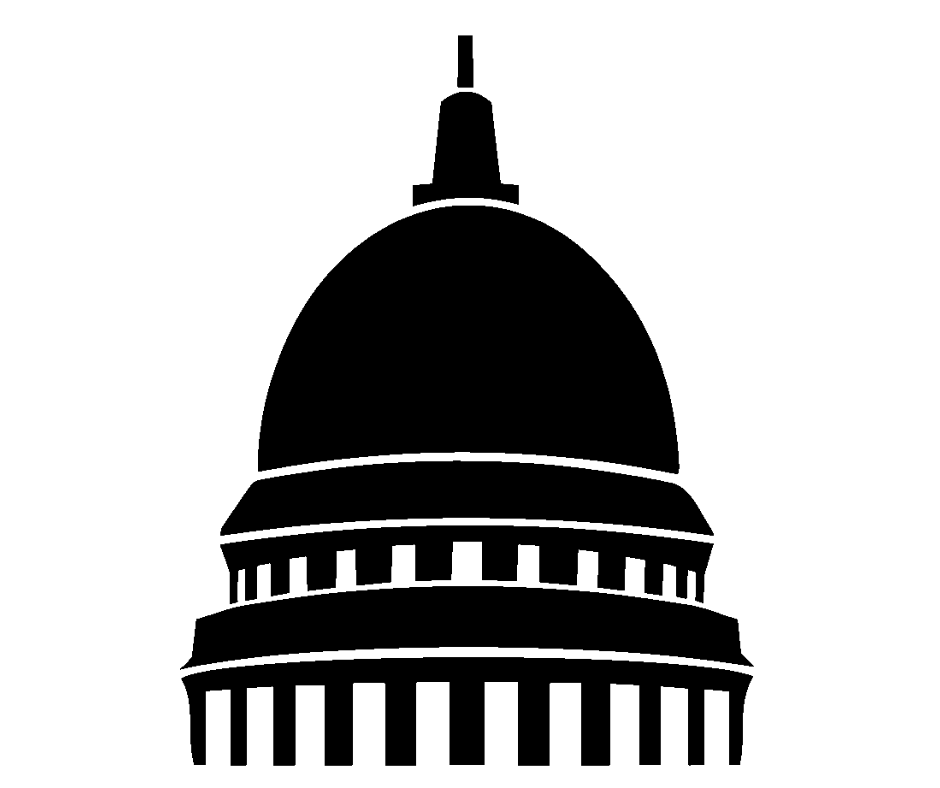
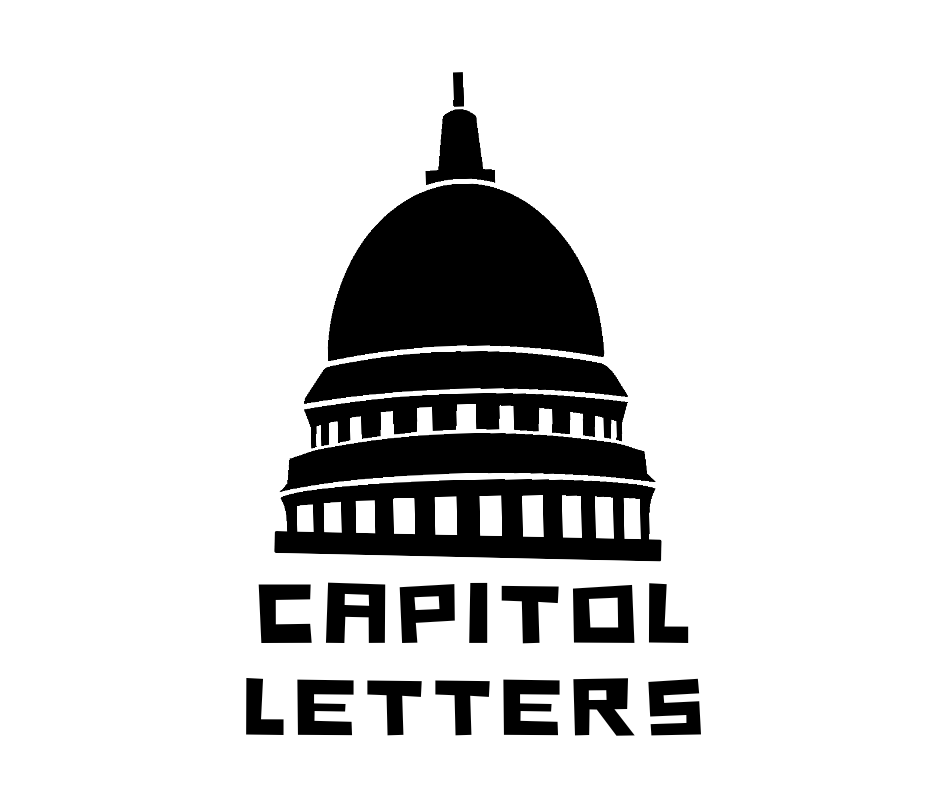
Add 6th guess and improve grid spacing

Changed region(s): [[0.1851, 0.3046, 0.8021, 0.9746], [0.3702, 0.0305, 0.5862, 0.335]]

diff --git a/src/App.jsx b/src/App.jsx
@@ -2,11 +2,20 @@ import { useState, useEffect } from "react";
 
 // --- WORD SYSTEM ---
 const WORD_BANK = {
-  "2026-04-16": { word: "UNION", fact: "where the terrace lives and sunsets get crowded" },
-  "2026-04-17": { word: "CURDS", fact: "squeaky if you know what you're doing" }
+  "2026-04-16": { word: "STATE", fact: "A million vape shops will never fill the void that Paul’s Bookstore left in our hearts. But the THC may help…" },
+  "2026-04-17": { word: "METRO", fact: "The Madison Metro Transit operates with approximately 1,346 bus stops. There, now you know." }
 };
 
 const BASE_DATE = "2026-04-16";
+
+// --- BADGES ---
+const BADGES = [
+  { days: 15, label: 'Knows what "242-2000" is' },
+  { days: 10, label: "Can name every Madison lake" },
+  { days: 5, label: "Isthmuskateer" },
+  { days: 3, label: 'Familiar with the term "sett"' },
+  { days: 1, label: "Knows how to zipper merge" }
+];
 
 const getDevDate = () => {
   const params = new URLSearchParams(window.location.search);
@@ -28,6 +37,50 @@ const getPuzzleNumber = () => {
   const today = new Date(getTodayKey());
   const diff = Math.floor((today - base) / (1000 * 60 * 60 * 24));
   return diff + 1;
+};
+
+// --- STREAK SYSTEM ---
+const getStreakData = () => {
+  const data = JSON.parse(localStorage.getItem("capitol_streak") || "{}");
+  return {
+    streak: data.streak || 0,
+    lastPlayed: data.lastPlayed || null
+  };
+};
+
+const updateStreak = (won) => {
+  const today = getTodayKey();
+  const { streak, lastPlayed } = getStreakData();
+
+  let newStreak = streak;
+
+  if (!won) {
+    newStreak = 0;
+  } else {
+    const yesterday = new Date(today);
+    yesterday.setDate(yesterday.getDate() - 1);
+    const yesterdayKey = yesterday.toISOString().slice(0, 10);
+
+    if (lastPlayed === yesterdayKey) {
+      newStreak += 1;
+    } else if (lastPlayed !== today) {
+      newStreak = 1;
+    }
+  }
+
+  localStorage.setItem(
+    "capitol_streak",
+    JSON.stringify({ streak: newStreak, lastPlayed: today })
+  );
+
+  return newStreak;
+};
+
+const getBadge = (streak) => {
+  for (let badge of BADGES) {
+    if (streak >= badge.days) return badge.label;
+  }
+  return "Solve to unlock a title";
 };
 
 const MAX_GUESSES = 6;
@@ -73,6 +126,12 @@ export default function App() {
   const [gameOver, setGameOver] = useState(false);
   const [keyStatus, setKeyStatus] = useState({});
   const [copied, setCopied] = useState(false);
+  const [streak, setStreak] = useState(0);
+
+  useEffect(() => {
+    const { streak } = getStreakData();
+    setStreak(streak);
+  }, []);
 
   const submitGuess = () => {
     if (current.length !== 5 || gameOver) return;
@@ -96,6 +155,10 @@ export default function App() {
 
     if (guess === SOLUTION || newGuesses.length === MAX_GUESSES) {
       setGameOver(true);
+
+      const won = guess === SOLUTION;
+      const newStreak = updateStreak(won);
+      setStreak(newStreak);
     }
   };
 
@@ -121,26 +184,37 @@ export default function App() {
 
   const handleShare = () => {
     const grid = guesses.map(g => g.result.map(r => emojiMap[r]).join("")).join("\n");
-    const text = `CAPITOL LETTERS\n${formatDate()} • ${guesses.length}/${MAX_GUESSES}\n\n${grid}`;
+    const text = `CAPITOL CODED\n${formatDate()} • ${guesses.length}/${MAX_GUESSES}\n\n${grid}`;
     navigator.clipboard.writeText(text);
     setCopied(true);
     setTimeout(() => setCopied(false), 2000);
+  };
+
+  const getKeyColor = (k) => {
+    if (keyStatus[k] === "green") return "#34d399";
+    if (keyStatus[k] === "blue") return "#60a5fa";
+    if (keyStatus[k] === "gray") return "#d1d5db";
+    return "#f3f4f6";
   };
 
   if (!started) {
     return (
       <div style={styles.launchContainer}>
         <img src="/capitol.png" style={styles.logo} />
-        <link href="https://fonts.googleapis.com/css2?family=Playfair+Display:wght@500;700&display=swap" rel="stylesheet" />
-        <h1 style={styles.title}>CAPITOL LETTERS</h1>
-        <p style={styles.subtitle}>A Madison word game.</p>
+
+        <p style={styles.subtitle}>A word game for Madison minds</p>
 
         <button onClick={() => setStarted(true)} style={styles.playButton}>
           Play now
         </button>
 
+
+
+        <div style={styles.streak}>{streak} day streak</div>
+        <div style={styles.badge}>{getBadge(streak)}</div>        
+        
         <div style={styles.meta}>
-          {formatDate()} • Puzzle #{getPuzzleNumber()}
+          {formatDate()} • Puzzle {getPuzzleNumber()}
         </div>
       </div>
     );
@@ -149,7 +223,7 @@ export default function App() {
   return (
     <div style={styles.gameContainer}>
 
-      <div style={styles.gridWrapper}>
+      <div style={{ ...styles.gridWrapper, paddingBottom: gameOver ? 0 : 140 }}>
         <div>
           {[...Array(MAX_GUESSES)].map((_, r) => (
             <div key={r} style={styles.row}>
@@ -174,7 +248,6 @@ export default function App() {
         </div>
       </div>
 
-      {/* ✅ KEYBOARD ONLY SHOWS IF GAME NOT OVER */}
       {!gameOver && (
         <div style={styles.keyboardContainer}>
           {KEYS.map((row, i) => (
@@ -185,7 +258,13 @@ export default function App() {
                 </button>
               )}
               {row.split("").map(k => (
-                <button key={k} onClick={() => handleKey(k)} style={styles.key}>{k}</button>
+                <button
+                  key={k}
+                  onClick={() => handleKey(k)}
+                  style={{ ...styles.key, backgroundColor: getKeyColor(k) }}
+                >
+                  {k}
+                </button>
               ))}
               {i === 2 && (
                 <button onClick={() => handleKey("DEL")} style={{ ...styles.key, flex: 1.5 }}>
@@ -197,19 +276,18 @@ export default function App() {
         </div>
       )}
 
-      {/* ✅ RESULT NOW FLOWS + CENTERS */}
       {gameOver && (
         <div style={styles.resultCentered}>
           <div style={styles.answer}>{SOLUTION}</div>
           <div style={styles.fact}>{DESCRIPTION}</div>
 
           <button onClick={handleShare} style={styles.share}>
-            Play with friends
+            Share with friends
           </button>
 
           {copied && <div style={styles.copied}>Copied to clipboard, share with friends</div>}
 
-          <div style={styles.return}>Same time tomorrow?</div>
+          <div style={styles.return}>New puzzles daily unless I forget</div>
         </div>
       )}
     </div>
@@ -228,9 +306,7 @@ const styles = {
     color: "#111"
   },
 
-  logo: { width: 70, marginBottom: 8 },
-
-  title: { fontSize: 36, margin: "8px 0", color: "#111" },
+  logo: { width: 375, marginBottom: 2 },
 
   subtitle: { fontSize: 16, color: "#555" },
 
@@ -243,6 +319,9 @@ const styles = {
   },
 
   meta: { marginTop: 16, fontSize: 12, color: "#777" },
+
+  streak: { marginTop: 10, fontSize: 14 },
+  badge: { fontSize: 12, color: "#666", marginTop: 4 },
 
   gameContainer: {
     minHeight: "100vh",
@@ -268,13 +347,14 @@ const styles = {
   tile: {
     width: 56,
     height: 56,
-    border: "1px solid #e5e7eb",
+    border: "1px solid #d1d5db",
     display: "flex",
     alignItems: "center",
     justifyContent: "center",
     fontSize: 20,
     borderRadius: 6,
-    color: "#111"
+    color: "#111",
+    backgroundColor: "#f9fafb"
   },
 
   keyboardContainer: {
@@ -297,9 +377,8 @@ const styles = {
     flex: 1,
     height: 52,
     fontSize: 14,
-    backgroundColor: "#f3f4f6",
-    color: "#111",
-    borderRadius: 6
+    borderRadius: 6,
+    color: "#111"
   },
 
   resultCentered: {
@@ -308,7 +387,6 @@ const styles = {
   },
 
   answer: { fontWeight: "bold", fontSize: 18 },
-
   fact: { fontStyle: "italic", fontSize: 14 },
 
   share: {
@@ -320,6 +398,5 @@ const styles = {
   },
 
   copied: { fontSize: 12, marginTop: 5 },
-
   return: { fontSize: 12, marginTop: 10, color: "#888" }
 };